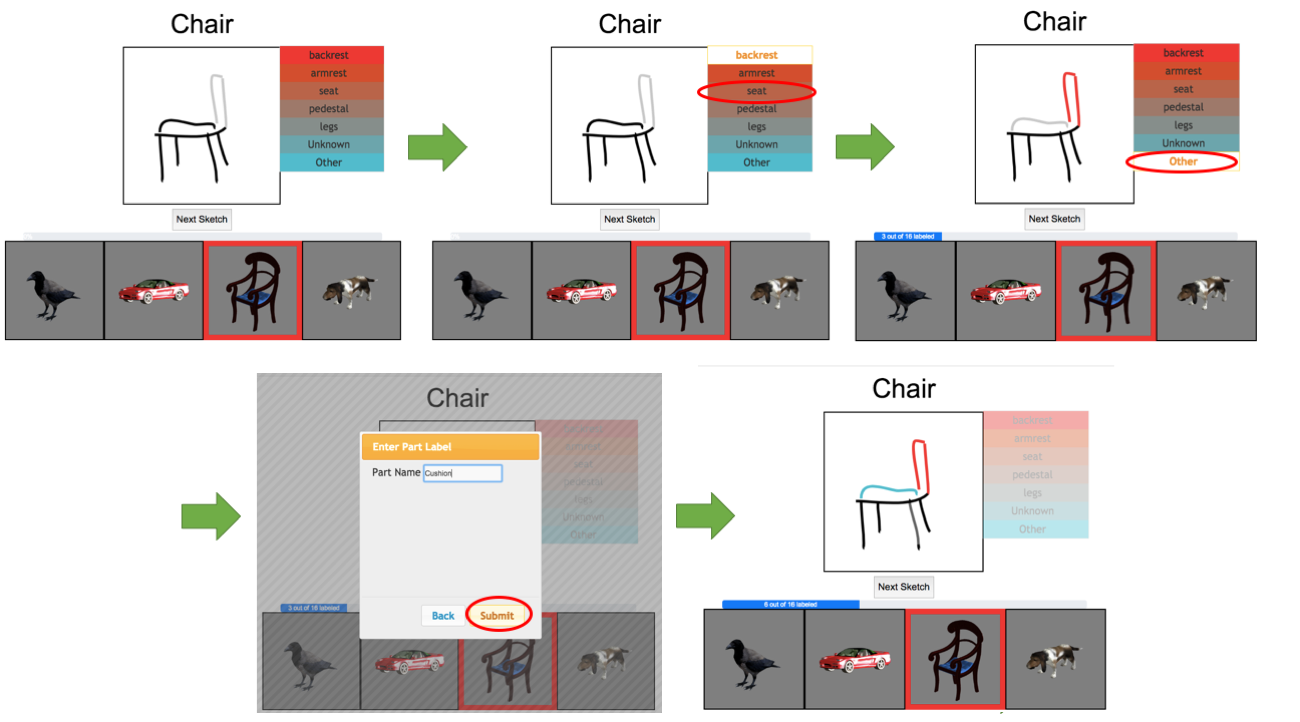
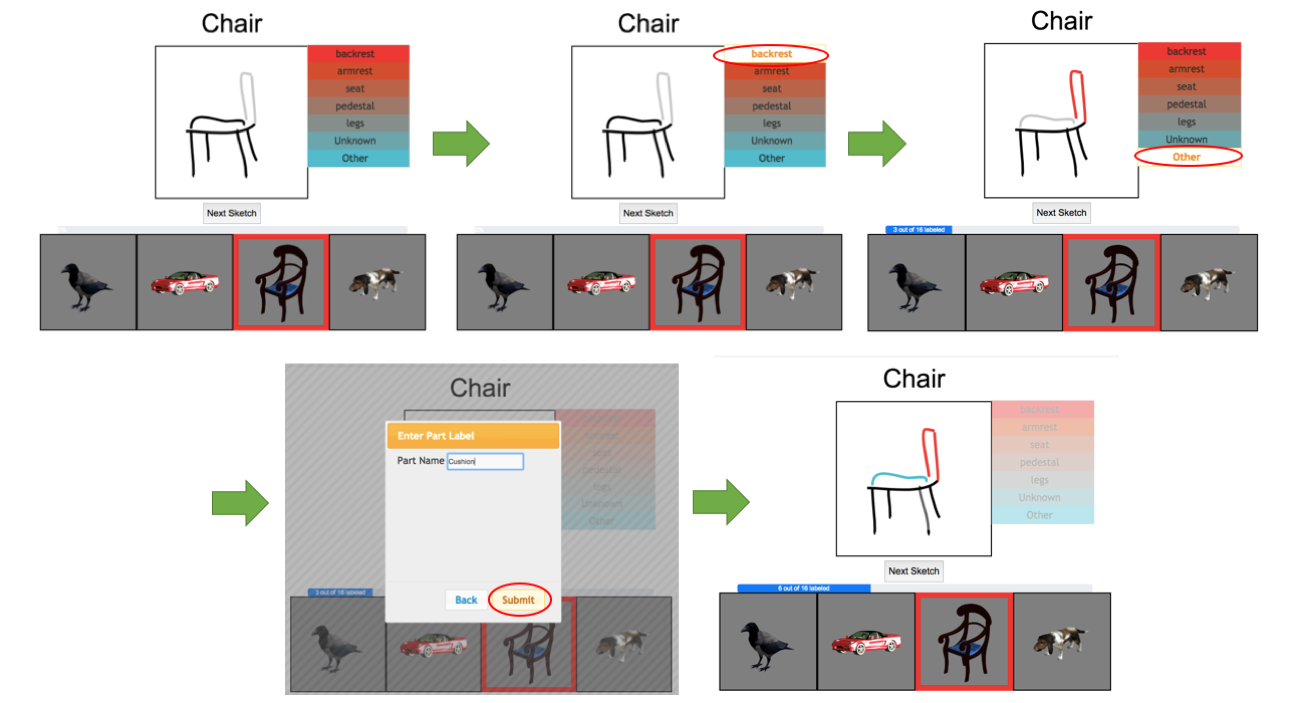
Changing instruction images

diff --git a/experiments/setup.js b/experiments/setup.js
@@ -28,20 +28,18 @@ function setupExp(){
     var trials = new Array(tmp.num_trials + 3);
     
     var consentHTML = {
-      'str1' : '<p> In this HIT you will see some sketches. Your task will be to label the constituent strokes of these sketches using an interactive menu and/or a free response box.</p>',
+      'str1' : '<p> In this HIT you will see some sketches made by humans who played a pictionary-style game, where the sketcher had to distinguish a target image from three distractor images. Your task will be to label the constituent strokes of these sketches using an interactive menu and/or a free response box.</p>',
       'str2': '<p> We expect the average amount of time required to complete the HIT to be around n minutes, including the time it takes to read the instructions. </p>',
       'str3':"<p> If you encounter a problem or error, send us an email () and we will make sure you're compensated for your time! Please pay attention and do your best! Thank you!</p><p> Note: We recommend using Chrome. We have not tested this HIT in other browsers.</p>"};
       var instructionsHTML = {
         'str1' :"<p> Each trial will appear as follows: A sketch will appear within a bounded box along with a corresponding menu of labels to its right. A category label above the box will tell you what object the sketch is of.\
-        You will also see a 'next sketch' button below the box, which will allow you to move on to the next trial when you are done labeling the sketch.\
+        The four images below the box are the images the original sketcher was shown, with the target image being the one with a red border. You will also see a 'next sketch' button below the box, which will allow you to move on to the next trial when you are done labeling the sketch.\
         <p>Finally you will see a blue progress bar at the bottom of the screen indicating how many parts have been labeled for the current sketch.</p></p><p> Here is an example of what a typical trial looks like:</p><p> <img src='testImage.png' style= 'border:2px solid #000000;'></img></p>",
         'str2':"<p> Your task is to select strokes on the sketch and annotate them using either the labels provided, or by clicking on 'Other' and entering your own label in the text-box that appears.<p><img src= 'labelInstructions.png' style= 'border:2px solid #000000;'></img></p></p>",
-
-
         'str3':"<p> There are two main ways of selecting strokes :<p> 1. Clicking on a stroke to highlight it. </p>  <p><img src='clickInstructions.png' style= 'border:2px solid #000000;'></img</p></p>",
-        'str4': "<p> 2. Clicking and dragging the mouse across multiple strokes to highlight a family of strokes.<p><img src = 'dragInstructions.png' style= 'border:2px solid #000000;'></img></p> Once you've highlighted all the strokes you want to, click on one of the menu labels to assign that label to the highlighted strokes. Repeat this process until all strokes are labeled.</p>",
-        'str5': "<p> As you continue to label strokes, unselected strokes will get thicker to help guide your attention to potential smaller strokes, which you may have missed.<p><img src = 'thicknessInstructions.png' style= 'border:2px solid #000000;'></img></p> ",
-        'str6': "<p>You can click on already highlighted strokes to un-highlight them before clicking on a menu label<p><img src = 'unhighlightInstructions.png' style= 'border:2px solid #000000;'></img></p>. Similarly, if you want to relabel an already labeled stroke, click on it and choose a new label from the menu.<p><img src = 'relabelInstructions.png' style= 'border:2px solid #000000;'></img></p></p>",
+        'str4': "<p> 2. Clicking and dragging the mouse across the screen to highlight a family of strokes.<p><img src = 'dragInstructions.png' style= 'border:2px solid #000000;'></img></p> Once you've highlighted all the strokes you want to, click on one of the menu labels to assign that label to the highlighted strokes. Repeat this process until all strokes are labeled.</p>",
+        'str5': "<p> As you continue to label strokes, unselected strokes will get thicker to help guide your attention to smaller strokes, which you may have missed.<p><img src = 'thicknessInstructions.png' style= 'border:2px solid #000000;'></img></p> ",
+        'str6': "<p>You can click on already highlighted strokes to un-highlight them before clicking on a menu label.<p><img src = 'unhighlightInstructions.png' style= 'border:2px solid #000000;'></img></p> Similarly, if you want to relabel an already labeled stroke, click on it and choose a new label from the menu.<p><img src = 'relabelInstructions.png' style= 'border:2px solid #000000;'></img></p></p>",
         'str7':"<p>Click next to start a practice trial. Label all the parts of the sketch that appears with appropriate labels. Make sure to try out the different selection and deselection tools to familiarize yourself before the actual trials begin. When you're done labeling, click on 'next sketch' then on 'continue' in the dialog-box that appears.</p>"};
 
         var intro = {

diff --git a/experiments/part_annotation.css b/experiments/part_annotation.css
@@ -23,7 +23,7 @@
     position: relative;
     display: inline-block;
     margin-bottom: auto;
-    right:520px;
+    right:510px;
     top:55px;
     ;
 
